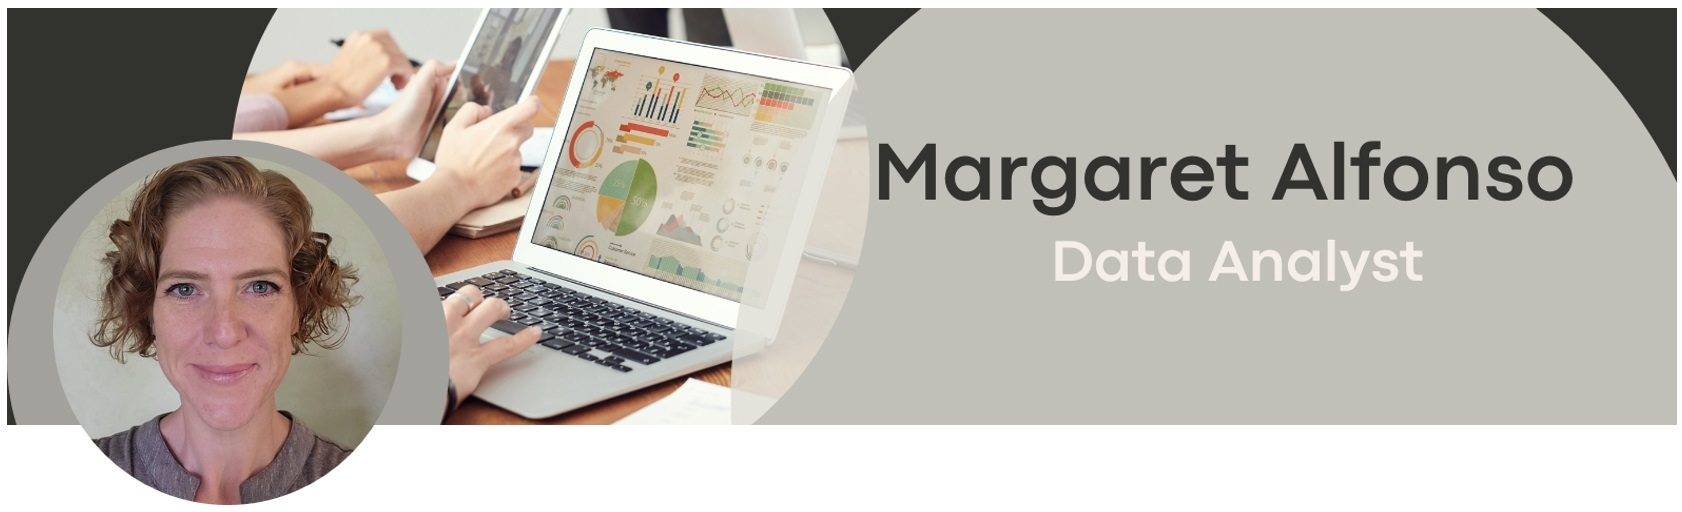
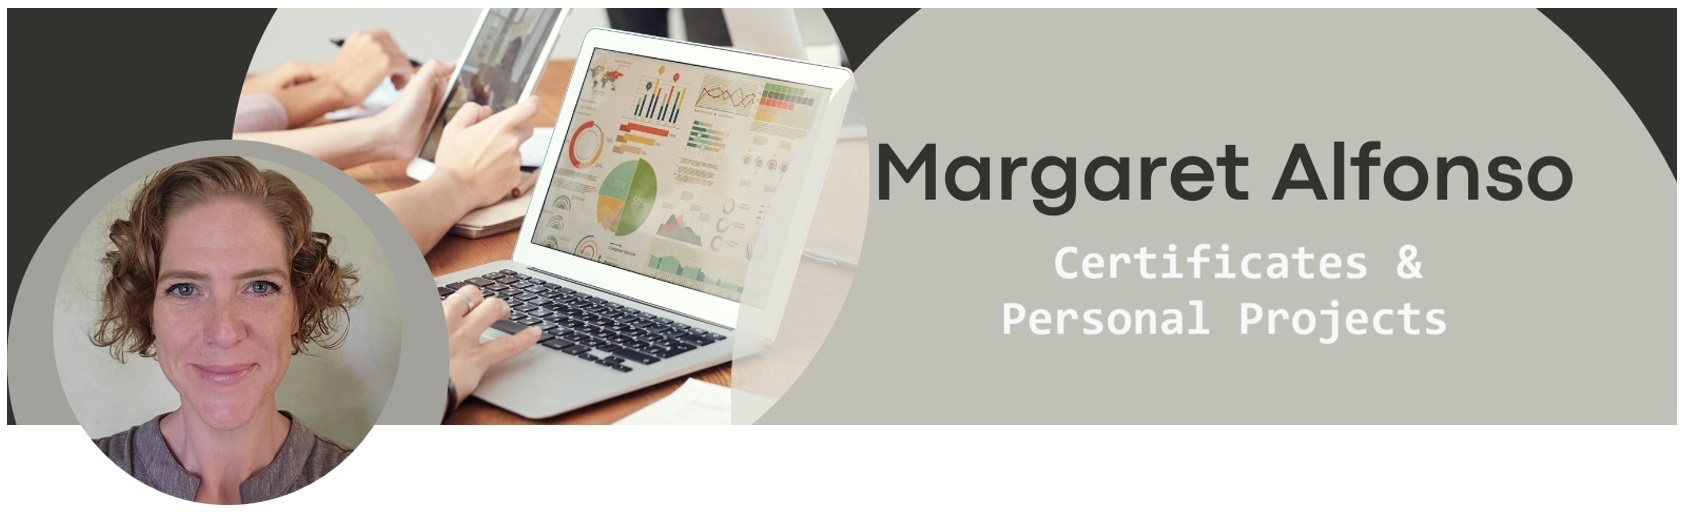
Add files via upload

Changed region(s): [[0.6183, 0.4688, 0.8656, 0.5625], [0.5874, 0.5938, 0.8656, 0.6875]]

diff --git a/index.html b/index.html
@@ -48,10 +48,7 @@
 						<!-- Featured Post -->
 							<article class="post featured">
 							</header>
-							<a href="https://www.linkedin.com/in/margaret-alfonso/" class="image fit"><img src="images/Portfolio Background.jpg" alt="" /></a>
-								<header class="major">
-									<h2><a href="https://www.linkedin.com/in/margaret-alfonso/">Certificates and Personal Projects:<br />
-									</a></h2>	
+							<a href="" class="image fit"><img src="images/Portfolio Background.jpg" alt="" /></a>
 							</article>
 
 						<!-- Posts -->
@@ -59,14 +56,13 @@
 								<article>
 									<header>
 										<h2><a href="https://www.coursera.org/account/accomplishments/professional-cert/YPKNTQC57ZSD">Google Data Analytics Professional Certificate<br />
-										<br />
 										</a></h2>
 									</header>
 									<a href="https://www.coursera.org/account/accomplishments/professional-cert/YPKNTQC57ZSD" class="image fit"><img src="images/Google Certificate.jpg" alt="" /></a>
 									<p>This certificate included 8 rigorous courses to enhance data analysis capabilities, including managing, organizing, cleaning, analyzing, and visualizing data. Courses covered <b>Excel, Google Sheets, SQL, Tableau, and R-Programming Language.</b>  </p>
 									<ul class="actions special">
 										<li><a href="https://www.coursera.org/account/accomplishments/professional-cert/YPKNTQC57ZSD" class="button">Verify this Certificate</a></li>
-									</ul>
+								    </ul>
 								</article>
 								<article>
 									<header>
@@ -74,7 +70,7 @@
 											</a></h2>
 									</header>
 									<a href="https://www.coursera.org/account/accomplishments/verify/3BXKL7GGMUXF" class="image fit"><img src="images/Excel Certificate.jpg" alt="" /></a>
-									<p>This course forms part of the Microsoft Power BI Analyst Professional Certificate which I am on track to finish by December 2023. Skills covered in this course include <b>Cleaning and Standardizing Data, Formulas, Functions, Nested Fuctions, Calculating Percentages, Dates and Times</b> </p>
+									<p>This course forms part of the Microsoft Power BI Analyst Professional Certificate. Skills covered in this course include <b>Cleaning and Standardizing Data, Formulas, Functions, Nested Fuctions, Calculating Percentages, Dates and Times</b> </p>
 									<ul class="actions special">
 										<li><a href="https://www.coursera.org/account/accomplishments/verify/3BXKL7GGMUXF" class="button">Verify this Certificate</a></li>
 									</ul>
@@ -85,25 +81,22 @@
 											</a></h2>
 									</header>
 									<a href="https://coursera.org/share/dc18afcb55c8c80b155e805f6f6ea9d5" class="image fit"><img src="images/Power BI Certificate.jpg" alt="" /></a>
-									<p>This course forms part of the Microsoft Power BI Analyst Professional Certificate which I am on track to finish by December 2023. Skills covered in this course include <b>key data analysis components, Power BI data analyst's skills, tasks, and tools, results for data-driven decisions. </b> </p>
+									<p>This course forms part of the Microsoft Power BI Analyst Professional Certificate. Skills covered in this course include <b>key data analysis components, Power BI data analyst's skills, tasks, and tools, results for data-driven decisions. </b> </p>
 									<ul class="actions special">
 										<li><a href="https://coursera.org/share/dc18afcb55c8c80b155e805f6f6ea9d5" class="button">Verify this Certificate</a></li>
 									</ul>
 								</article>
-
 								<article>
 									<header>
 										<h2><a href="https://github.com/MargaretAlfonso/Portfolio_Projects/blob/main/Exploring%20METABASE%20-%20Margaret%20Alfonso.pdf">Exploring Metabase<br />
-										<br />
 										</a></h2>
 									</header>
 									<a href="https://github.com/MargaretAlfonso/Portfolio_Projects/blob/main/Exploring%20METABASE%20-%20Margaret%20Alfonso.pdf" class="image fit"><img src="images/Exploring Metabase.jpg" alt="" /></a>
-									<p>This project was to familiarize myself with Metabase. I used sample data to <b>join tables, filter data, create questions, develop various visualizations, link interactive dropdown filters, and form a dashboard to tell a story. </p>
+									<p>This project was to familiarize myself with Metabase. I used sample data to <b>join tables, filter data, create questions, develop various visualizations, link interactive dropdown filters, and form a dashboard to tell a story.</b> </p>
 									<ul class="actions special">
 										<li><a href="https://github.com/MargaretAlfonso/Portfolio_Projects/blob/main/Exploring%20METABASE%20-%20Margaret%20Alfonso.pdf" class="button">View Image</a></li>
 									</ul>
 								</article>
-
 								<article>
 									<header>
 										<h2><a href="https://github.com/MargaretAlfonso/Portfolio_Projects/blob/main/DataCleaningHousingProject.sql">Ensuring Data Quality:<br />
@@ -111,19 +104,19 @@
 										Visualization in Tableau</a></h2>
 									</header>
 									<a href="https://public.tableau.com/app/profile/margaret.alfonso/viz/SQLDataCleaningViz/Dashboard1" class="image fit"><img src="images/Dashboard 1.png" alt="" /></a>
-									<p>In this project I used a variety of SQL skills <b>(Partition By, CTE, Self-Join, Substring, Case Statement, Replace, Parsename)</b> to demonstrate my ability to ensure data quality by thoroughly cleaning and processing raw data. The new data  could then be transformed it a sample data visualization dashboard using Tableau. </p>
+									<p>For this project I used a variety of SQL skills <b>(Partition By, CTE, Self-Join, Substring, Case Statement, Replace, Parsename)</b> to demonstrate my ability to ensure data quality by thoroughly cleaning and processing raw data. The new data could then be transformed into a sample data visualization dashboard using Tableau. </p>
 									<ul class="actions special">
 										<li><a href="https://github.com/MargaretAlfonso/Portfolio_Projects/blob/main/DataCleaningHousingProject.sql" class="button">SQL Script</a></li>
 									</ul>
 								</article>
-																<article>
+								<article>
 									<header>
 										<h2><a href="https://www.kaggle.com/code/meganalf/bellabeats-an-analysis-using-r">Bellabeat:<br />
 										An Analysis using<br />
 										R-Programming</a></h2>
 									</header>
 									<a href="https://www.kaggle.com/code/meganalf/bellabeats-an-analysis-using-r" class="image fit"><img src="images/BellabeatsSmall.png" alt="" /></a>
-									<p>In this project I completed a full data exploration including <b>preparing, processing, analyzing, and visualizing data</b>, as well as <b>sharing key findings and high-level recommendations.</b> </p>
+									<p>In this project I completed a full data exploration in order to answer business questions. The analysis included <b>preparing, processing, analyzing, and visualizing data</b>, as well as <b>sharing key findings and high-level recommendations.</b> </p>
 									<ul class="actions special">
 										<li><a href="https://www.kaggle.com/code/meganalf/bellabeats-an-analysis-using-r" class="button">Full Project</a></li>
 									</ul>
@@ -135,24 +128,21 @@
 											Dashboard in Power BI</a></h2>
 									</header>
 									<a href="https://github.com/MargaretAlfonso/Portfolio_Projects/blob/main/PortfolioCostLiving.sql" class="image fit"><img src="images/PowerBICostofLiving.jpg" alt="" /></a>
-									<p>In  this project I set out to use a variety of SQL skills <b>(Joins, CTE's, Aggregate Functions, Converting Data Types, Case Statements, Windows Functions, Temp Tables, Creating Views)</b> and Power BI skills <b>(Power Query Editor, DAX Expressions, Drill-Down, Conditional Formatting)</b> to demonstrate my ability to take raw data and transform it into a concise and accessible data visualization dashboard. </p>
+									<p>A demonstration of my ability to take raw data and transform it into a a dashboard. 
+										SQL skills: <b>Joins, CTE's, Aggregate Functions, Converting Data Types, Case Statements, Windows Functions, Temp Tables, Creating Views</b>. 
+										Power BI skills: <b>Power Query Editor, DAX Expressions, Drill-Down, Conditional Formatting</b>  </p>
 									<ul class="actions special">
 										<li><a href="https://github.com/MargaretAlfonso/Portfolio_Projects/blob/main/PortfolioCostLiving.sql" class="button">SQL Script</a></li>
 									</ul>
 								</article>
-								
-
-						
-
-				
+								<article>
+						<header>
+							<h2><a href="">Contact Me:<br /></a></h2>
+						</header>	
 						<section class="split contact">
 							<section class="alt">
 								<h3>Location</h3>
 								<p>Lexington, Kentucky, USA</p>
-							</section>
-							<section>
-								<h3>Phone</h3>
-								<p>(727) 336-4512</a></p>
 							</section>
 							<section>
 								<h3>Email</h3>
